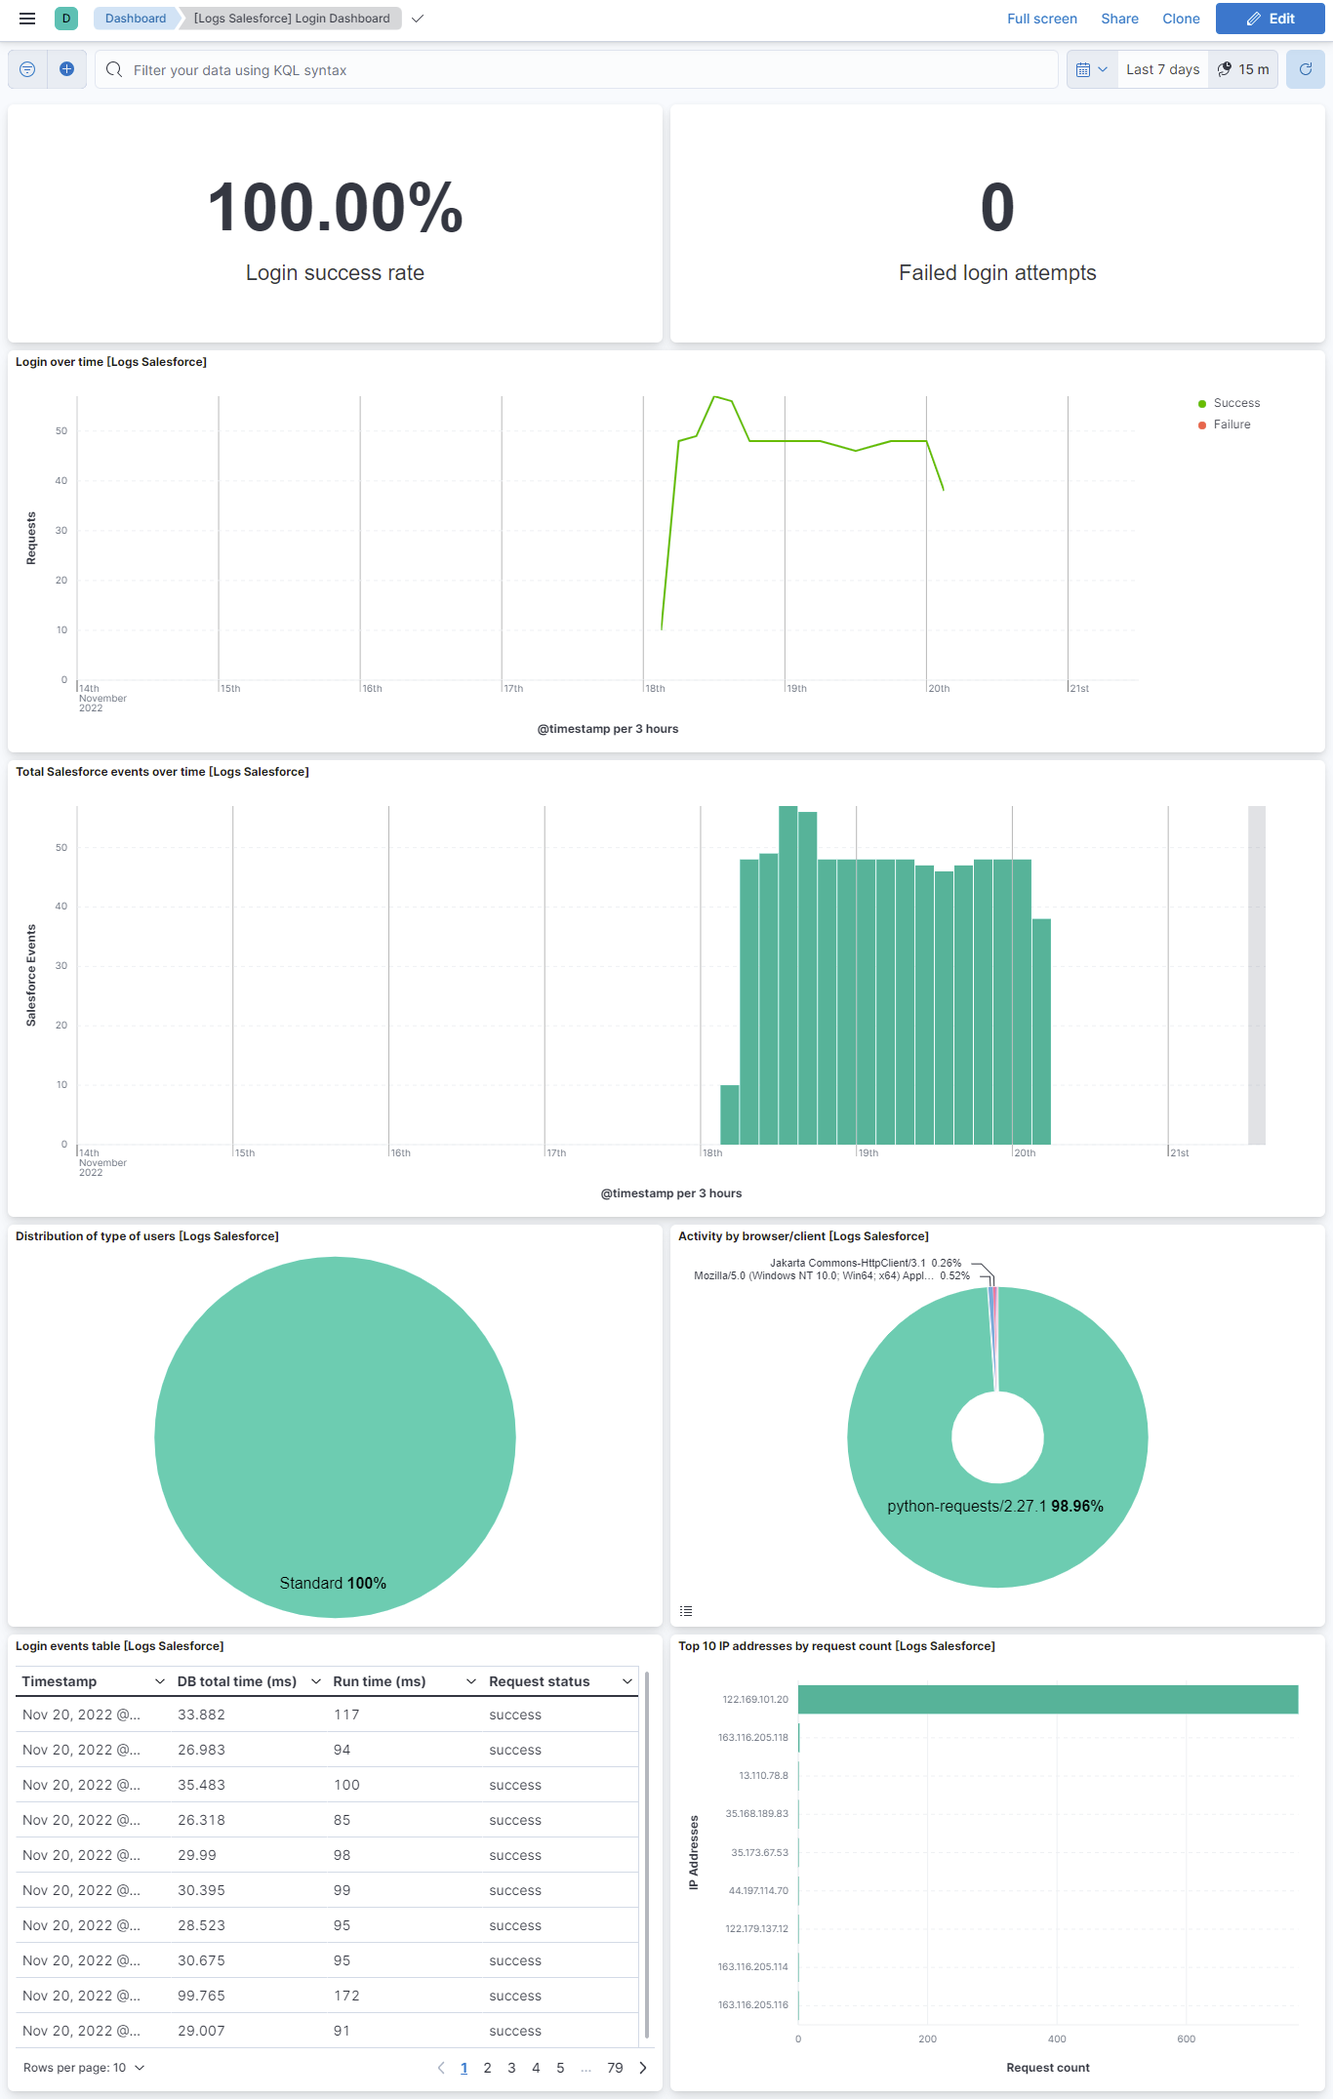
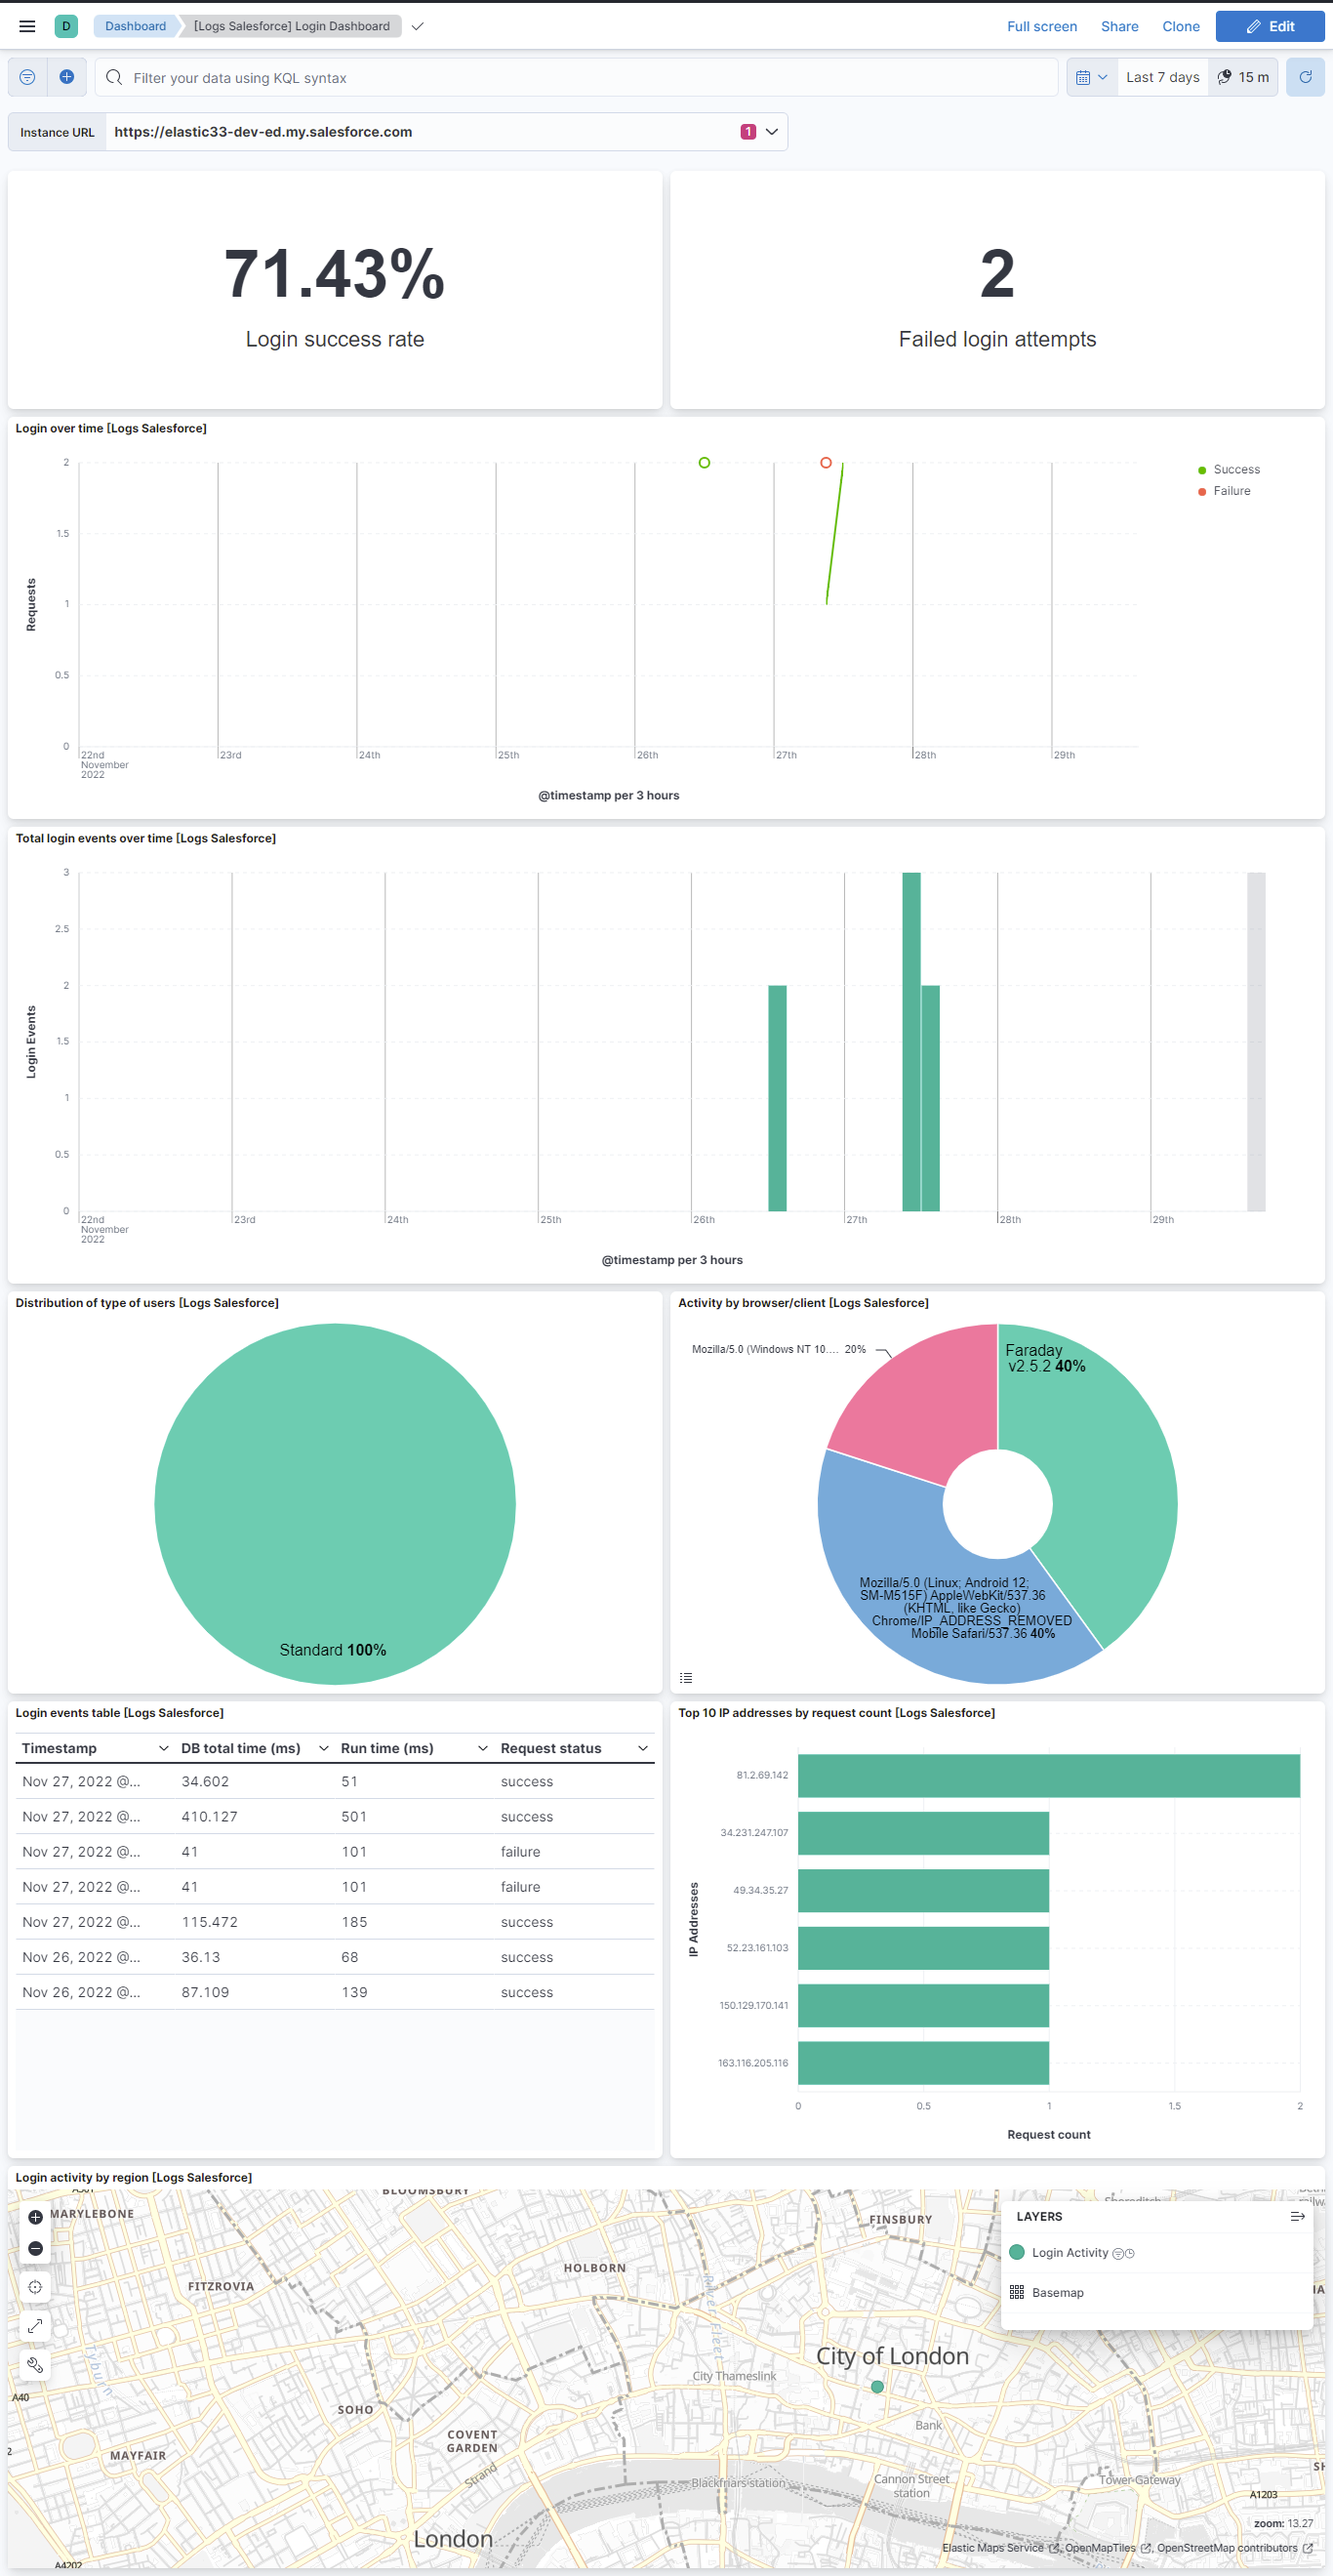
Address Review Comments

diff --git a/packages/salesforce/docs/README.md b/packages/salesforce/docs/README.md
@@ -120,6 +120,10 @@ In order to use this integration, you will need `API Enabled permission`.
 - Check if the Profile has `API Enabled permission` is enabled. If not enable it for data collection.
 - Under `Setup` > `Administrator` > `Profiles`, select the `profile` associated with the `User Account` and check for the `API Enabled permission` under `System Permissions`.
 
+## Compatibility
+
+This integration has been tested against Salesforce `Spring '22 (v54.0) release`.
+
 ## Troubleshooting
 
 - In case of data ingestion if the user finds following type of error logs:
@@ -141,8 +145,8 @@ An example event for `login_rest` looks as following:
 {
     "@timestamp": "2022-11-22T04:46:15.591Z",
     "agent": {
-        "ephemeral_id": "0f111524-46fb-4012-a000-a486afb3c536",
-        "id": "6adb1777-f02e-498c-87a9-c6fca04e403c",
+        "ephemeral_id": "ce504617-c797-4257-845c-f1d8f57cc9bd",
+        "id": "4a8a40ad-666c-45db-a9d1-3b027852bef0",
         "name": "docker-fleet-agent",
         "type": "filebeat",
         "version": "8.4.1"
@@ -156,7 +160,7 @@ An example event for `login_rest` looks as following:
         "version": "8.4.0"
     },
     "elastic_agent": {
-        "id": "6adb1777-f02e-498c-87a9-c6fca04e403c",
+        "id": "4a8a40ad-666c-45db-a9d1-3b027852bef0",
         "snapshot": false,
         "version": "8.4.1"
     },
@@ -166,9 +170,9 @@ An example event for `login_rest` looks as following:
         "category": [
             "authentication"
         ],
-        "created": "2022-11-25T10:49:21.665Z",
+        "created": "2022-11-29T07:28:46.257Z",
         "dataset": "salesforce.login_rest",
-        "ingested": "2022-11-25T10:49:26Z",
+        "ingested": "2022-11-29T07:28:50Z",
         "kind": "event",
         "module": "salesforce",
         "original": "{\"API_TYPE\":\"f\",\"API_VERSION\":\"9998.0\",\"AUTHENTICATION_METHOD_REFERENCE\":\"\",\"BROWSER_TYPE\":\"Mozilla/5.0 (Windows NT 10.0; Win64; x64) AppleWebKit/537.36 (KHTML, like Gecko) Chrome/94.0.4606.71 Safari/537.36\",\"CIPHER_SUITE\":\"ECDHE-RSA-AES256-GCM-SHA384\",\"CLIENT_IP\":\"81.2.69.142\",\"CPU_TIME\":\"30\",\"DB_TOTAL_TIME\":\"52435102\",\"EVENT_TYPE\":\"Login\",\"LOGIN_KEY\":\"QfNecrLXSII6fsBq\",\"LOGIN_STATUS\":\"LOGIN_NO_ERROR\",\"ORGANIZATION_ID\":\"00D5j000000VI3n\",\"REQUEST_ID\":\"4ehU_U-nbQyAPFl1cJILm-\",\"REQUEST_STATUS\":\"Success\",\"RUN_TIME\":\"83\",\"SESSION_KEY\":\"\",\"SOURCE_IP\":\"81.2.69.142\",\"TIMESTAMP\":\"20221122044615.591\",\"TIMESTAMP_DERIVED\":\"2022-11-22T04:46:15.591Z\",\"TLS_PROTOCOL\":\"TLSv1.2\",\"URI\":\"/index.jsp\",\"URI_ID_DERIVED\":\"s4heK3WbH-lcJIL3-n\",\"USER_ID\":\"0055j000000utlP\",\"USER_ID_DERIVED\":\"0055j000000utlPAAQ\",\"USER_NAME\":\"user@elastic.co\",\"USER_TYPE\":\"Standard\"}",
@@ -187,6 +191,7 @@ An example event for `login_rest` looks as following:
         ]
     },
     "salesforce": {
+        "instance_url": "http://elastic-package-service_salesforce_1:8010",
         "login": {
             "access_mode": "rest",
             "api": {
@@ -267,6 +272,7 @@ An example event for `login_rest` looks as following:
 | event.url | URL linking to an external system to continue investigation of this event. This URL links to another system where in-depth investigation of the specific occurrence of this event can take place. Alert events, indicated by `event.kind:alert`, are a common use case for this field. | keyword |  |  |
 | input.type | Input type. | keyword |  |  |
 | related.ip | All of the IPs seen on your event. | ip |  |  |
+| salesforce.instance_url | The Instance URL of the Salesforce instance. | keyword |  |  |
 | salesforce.login.access_mode | Mode of API from which the event is collected. | keyword |  |  |
 | salesforce.login.api.type | The type of API request. | keyword |  |  |
 | salesforce.login.api.version | The version of the API that's being used. | keyword |  |  |

diff --git a/packages/salesforce/_dev/build/docs/README.md b/packages/salesforce/_dev/build/docs/README.md
@@ -120,6 +120,10 @@ In order to use this integration, you will need `API Enabled permission`.
 - Check if the Profile has `API Enabled permission` is enabled. If not enable it for data collection.
 - Under `Setup` > `Administrator` > `Profiles`, select the `profile` associated with the `User Account` and check for the `API Enabled permission` under `System Permissions`.
 
+## Compatibility
+
+This integration has been tested against Salesforce `Spring '22 (v54.0) release`.
+
 ## Troubleshooting
 
 - In case of data ingestion if the user finds following type of error logs:
